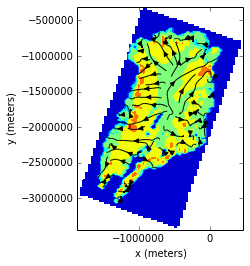
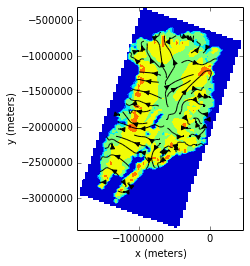
updated greenland velocity figure from the docs to be in phase with the bug fix a few commits ago

Changed region(s): [[0.392, 0.1203, 0.868, 0.7218], [0.476, 0.6617, 0.532, 0.782]]

diff --git a/docs/_notebooks_rst/projection.rst b/docs/_notebooks_rst/projection.rst
@@ -87,9 +87,9 @@ We can use matplotlib's contourf to get a feeling for what that all mean. Below 
 >>> ax = gca() # get plot axis
 >>> ax.set_aspect('equal') # equal aspect ratio
 >>> ax.set_xticks([-500e3,0,500e3]) # ticks every 500 km  # doctest: +SKIP
-[<matplotlib.axis.XTick at 0x7f08e26fd810>,
- <matplotlib.axis.XTick at 0x7f08e26a88d0>,
- <matplotlib.axis.XTick at 0x7f08e2512c50>]
+[<matplotlib.axis.XTick at 0x7f4aeb6a1810>,
+ <matplotlib.axis.XTick at 0x7f4aeb64c8d0>,
+ <matplotlib.axis.XTick at 0x7f4aeb4b8c50>]
 
 .. image:: projection_files/figure_16-1.png
 
@@ -98,7 +98,7 @@ We can use matplotlib's contourf to get a feeling for what that all mean. Below 
 And now plotting versus lon and lat (irregular, 2-D grid in this case):
 
 >>> contourf(ds['lon'], ds['lat'], log(clip(v, 1e-3,inf))); colorbar()  # doctest: +SKIP
-<matplotlib.colorbar.Colorbar instance at 0x7f08e23b31b8>
+<matplotlib.colorbar.Colorbar instance at 0x7f4aeb3571b8>
 
 .. image:: projection_files/figure_18-1.png
 
@@ -118,7 +118,7 @@ The :func:`dimarray.geo.crs.get_crs` function returns the most adequate projecti
 
 >>> stere = get_crs(grid_mapping)
 >>> stere # doctest: +SKIP
-<dimarray.geo.crs.PolarStereographic at 0x7f08e26b6d70>
+<dimarray.geo.crs.PolarStereographic at 0x7f4aeb65bc50>
 
 All projection classes defined in dimarray inherit from :class:cartopy.crs.CRS. A few common transformations have a Cartopy equivalent, and are defined as subclass, where possible.
 
@@ -176,7 +176,7 @@ Double-check against earlier figures, this looks all right:
 
 >>> h = log(clip(vt,1e-3,inf)).contourf(levels=np.linspace(-7.5, 10, 8))  # doctest: +SKIP
 >>> colorbar(h) # doctest: +SKIP
-<matplotlib.colorbar.Colorbar instance at 0x7f08e13a57e8>
+<matplotlib.colorbar.Colorbar instance at 0x7f4aea347b90>
 
 .. image:: projection_files/figure_40-1.png
 
@@ -200,9 +200,9 @@ That is the original field on the projection plane.
 >>> ax = gca()
 >>> ax.set_aspect('equal') # equal aspect ratio
 >>> ax.set_xticks([-500e3,0,500e3]) # ticks every 500 km  # doctest: +SKIP
-[<matplotlib.axis.XTick at 0x7f08e26177d0>,
- <matplotlib.axis.XTick at 0x7f08e12c3810>,
- <matplotlib.axis.XTick at 0x7f08e0601f10>]
+[<matplotlib.axis.XTick at 0x7f4aeaa4fb90>,
+ <matplotlib.axis.XTick at 0x7f4aea22e450>,
+ <matplotlib.axis.XTick at 0x7f4ae95a3f50>]
 
 .. image:: projection_files/figure_45-1.png
 
@@ -235,8 +235,8 @@ Transforming vectors in longitude latitude coordinates does not make much sense 
 >>> ax.set_xticks([-1000e3,0]) # ticks every 1000 km  # doctest: +SKIP
 /home/perrette/anaconda/lib/python2.7/site-packages/numpy/ma/core.py:783: RuntimeWarning: invalid value encountered in greater_equal
   return umath.absolute(a) * self.tolerance >= umath.absolute(b)
-[<matplotlib.axis.XTick at 0x7f08e10acad0>,
- <matplotlib.axis.XTick at 0x7f08e060bf50>]
+[<matplotlib.axis.XTick at 0x7f4aea051c10>,
+ <matplotlib.axis.XTick at 0x7f4aea03db90>]
 
 .. image:: projection_files/figure_50-2.png
 
